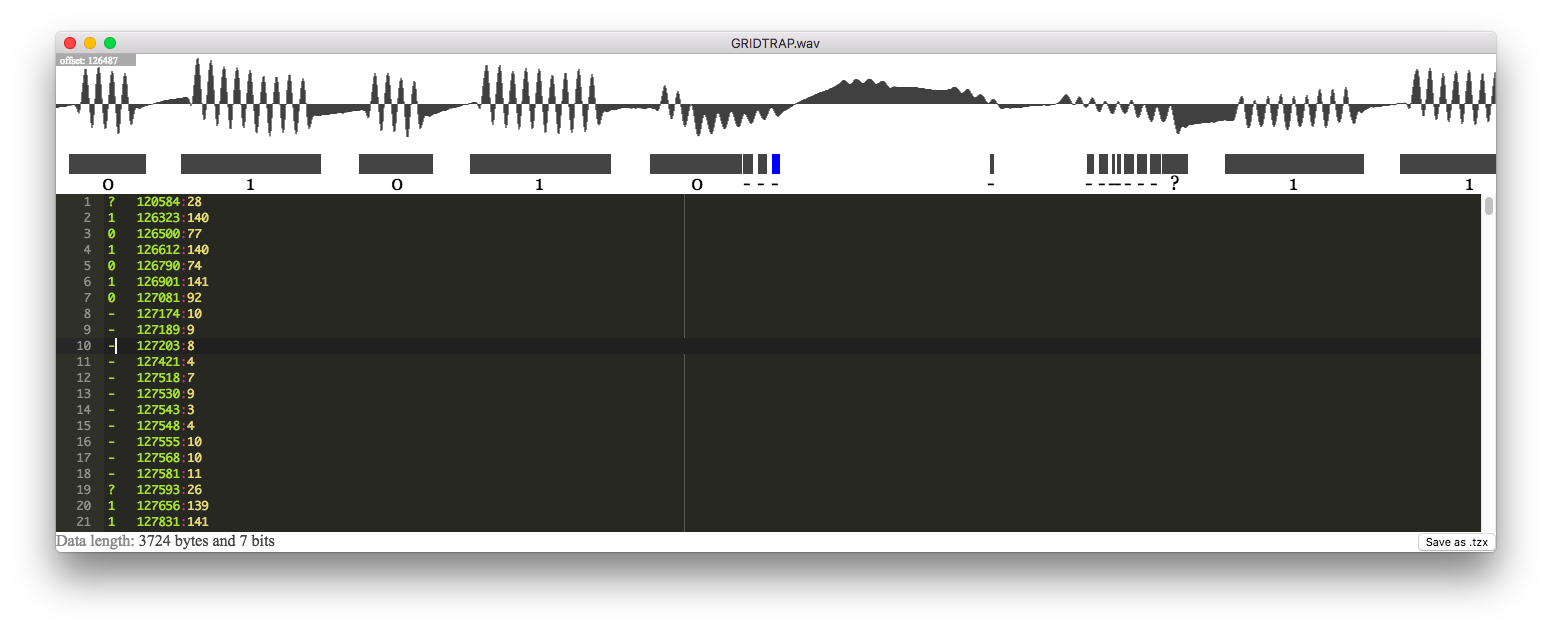
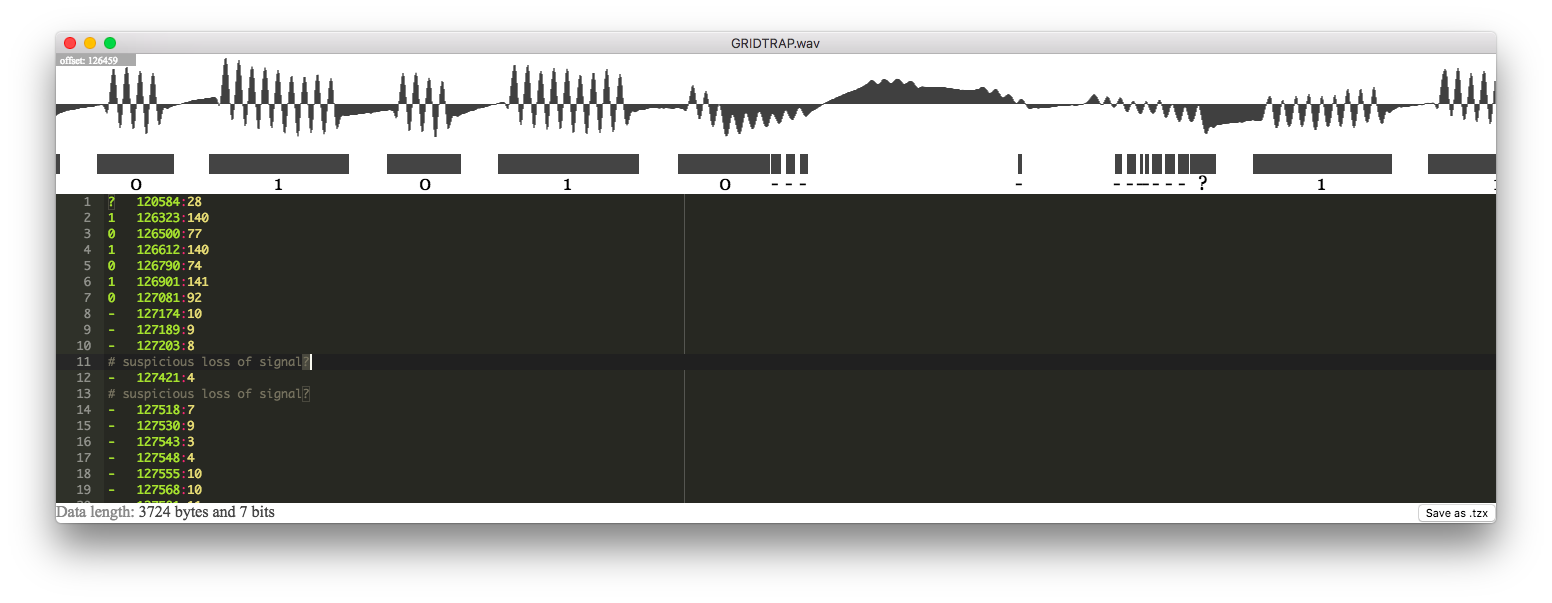
added comment lines when long pauses detected

Changed region(s): [[0.0309, 0.0597, 0.9897, 0.8955]]

diff --git a/app.js b/app.js
@@ -94,7 +94,7 @@ renderer.on('inputFile', (event, inputFile) => {
     console.log('one bit run length', oneBitRunLength);
     console.log('silence periods', silenceRunLength);
 
-    var runLengthsForEdit = runs.map(function (run) {
+    var linesForEdit = runs.map(function (run) {
         var bitAtString;
         if (run.runLength < 15) { // just disregard very short runs
             bitAsString = '-';
@@ -106,13 +106,23 @@ renderer.on('inputFile', (event, inputFile) => {
             bitAsString = '?';
         }
         return bitAsString + '\t' + run.index + ':' + run.runLength;
-    }).join('\n');
+    });
 
-    console.log('got run lengths');
+    // scan for dubious pauses indicating possible loss of signal
+    var firstBitIdx = _.findIndex(linesForEdit, val => val[0] == '0' || val[0] == '1')
+    var idx = _.findLastIndex(linesForEdit, val => val[0] == '0' || val[0] == '1')
+    while (idx > firstBitIdx) {
+        var pauseBeforeRun = runs[idx].index - (runs[idx - 1].index + runs[idx - 1].runLength);
+        if (pauseBeforeRun > 2*silenceRunLength) {
+            linesForEdit.splice(idx, 0, '# suspicious loss of signal?')
+        }
+        idx--;
+    }
+
 
     document.title = fileName;
 
-    editor.setValue(runLengthsForEdit, -1);
+    editor.setValue(linesForEdit.join('\n'), -1);
 
     editor.getSession().on('change', function (e) {
         repaintCanvas();

diff --git a/README.md b/README.md
@@ -81,6 +81,8 @@ A similar example of tape degradation, this time making a number of bits almost 
 
 ![broken sequence](README/broken_sequence.png)
 
+Note the "suspicious loss of signal?" comments. These are automatically inserted when the algorithm detects an unusually long pause in the recording and will help you locate places where the signal has become too weak for automatic detection.
+
 Looking at the ripples, it's easy for a human to spot that the algorithm got the initial zero wrong and that the bit sequence should be 1-0-0-1.
 
 ![broken sequence fixed](README/broken_sequence_fixed.png)
